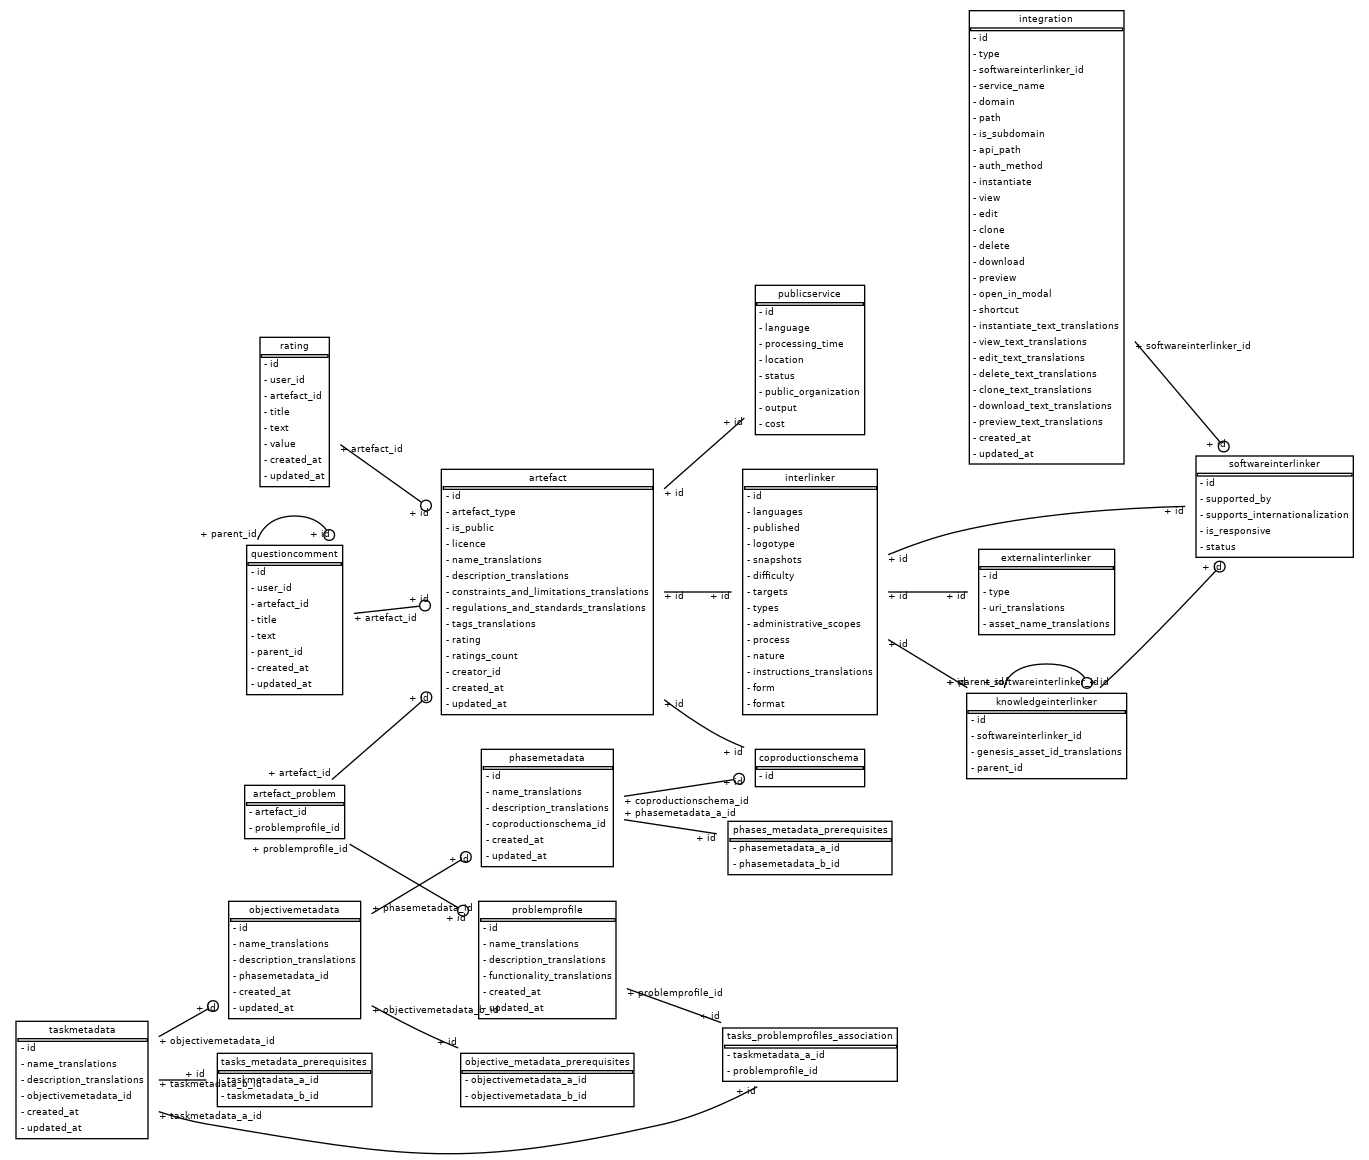
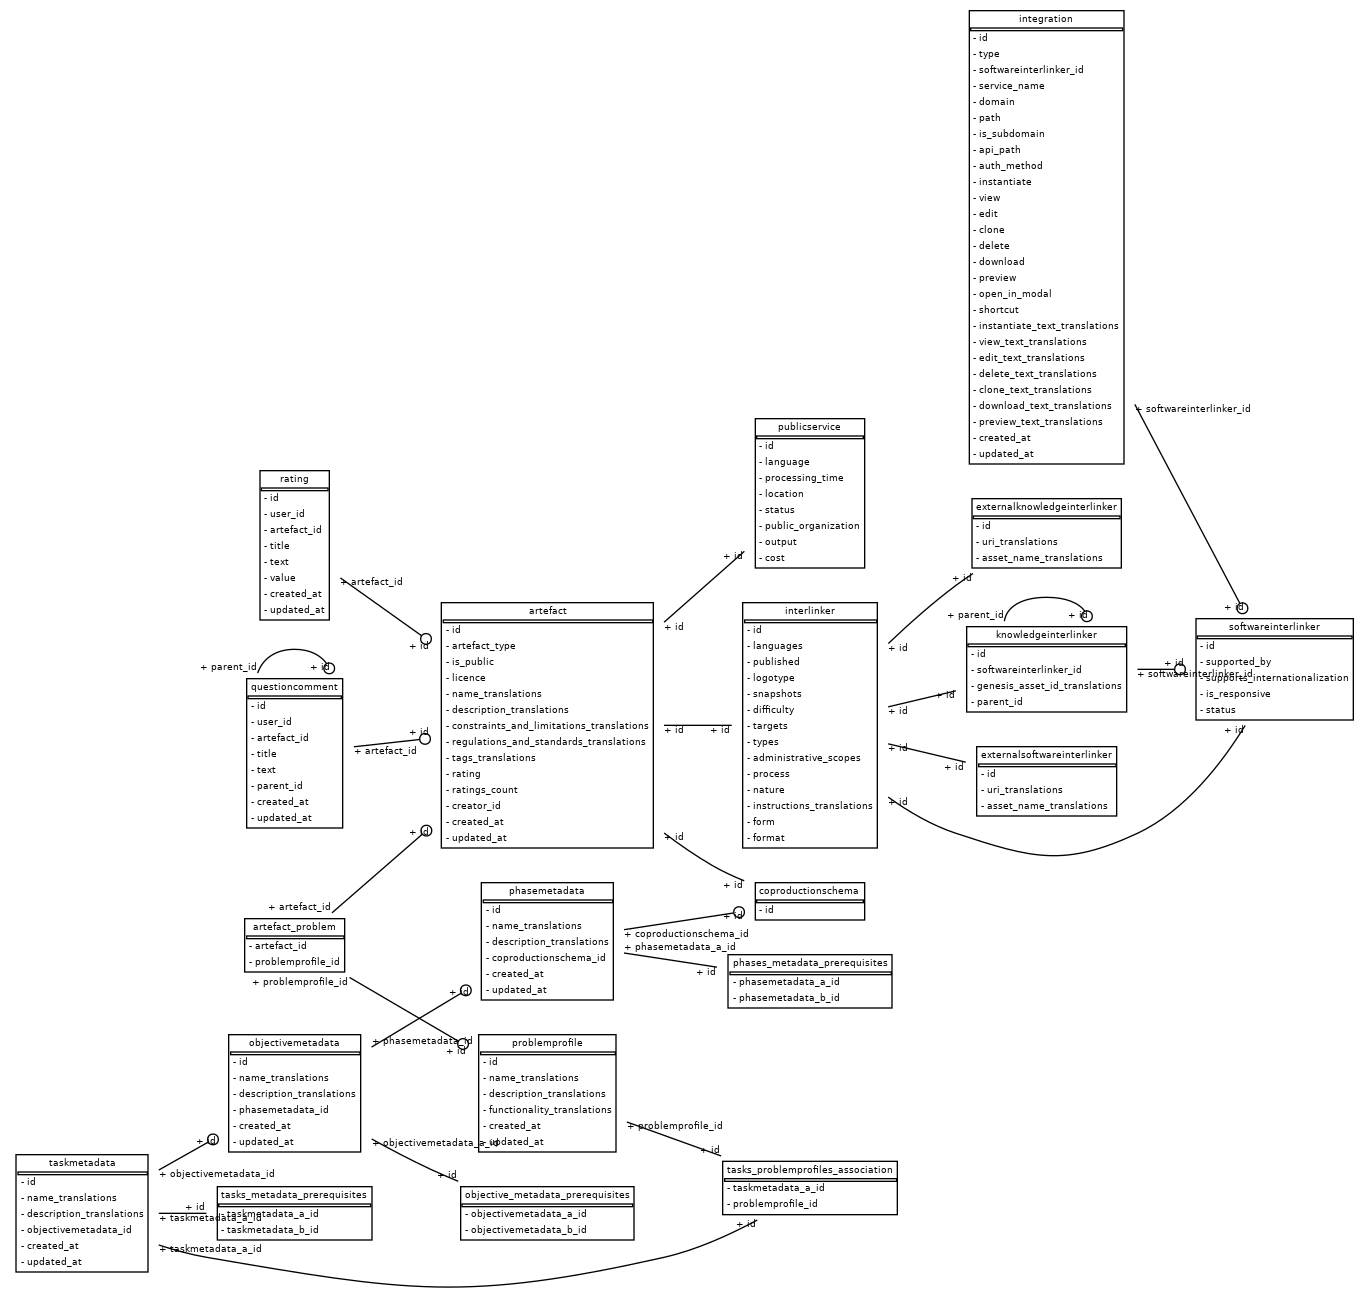
External interlinkers

Changed region(s): [[0.0, 0.0, 1.0, 0.9931], [0.8283, 0.2793, 0.8897, 0.3414], [0.2761, 0.9931, 0.3682, 1.0]]

diff --git a/catalogue/app/interlinkers/schemas.py b/catalogue/app/interlinkers/schemas.py
@@ -154,25 +154,23 @@ class KnowledgeInterlinkerOut(BasicKnowledgeInterlinker, KnowledgeBaseInterlinke
     children: List[BasicKnowledgeInterlinker]
 
 
-### ExternalInterlinker
+### ExternalSoftwareInterlinker
 
 
-class ExternalBaseInterlinkerBase(BaseInterlinkerBase):
-    nature: Literal["externalinterlinker"] = "externalinterlinker"
-    type: str
-    
+class ExternalSoftwareBaseInterlinkerBase(BaseInterlinkerBase):
+    nature: Literal["externalsoftwareinterlinker"] = "externalsoftwareinterlinker"    
 
 
-class ExternalInterlinkerCreate(BaseInterlinkerCreate, ExternalBaseInterlinkerBase):
+class ExternalSoftwareInterlinkerCreate(BaseInterlinkerCreate, ExternalSoftwareBaseInterlinkerBase):
     uri_translations: dict
     asset_name_translations: Optional[dict]
 
 
-class ExternalInterlinkerPatch(ExternalInterlinkerCreate, metaclass=AllOptional):
+class ExternalSoftwareInterlinkerPatch(ExternalSoftwareInterlinkerCreate, metaclass=AllOptional):
     pass
 
 
-class ExternalBaseInterlinkerORM(BaseInterlinkerORM, ExternalBaseInterlinkerBase):
+class ExternalSoftwareBaseInterlinkerORM(BaseInterlinkerORM, ExternalSoftwareBaseInterlinkerBase):
     id: uuid.UUID
     created_at: datetime
     updated_at: Optional[datetime]
@@ -184,27 +182,65 @@ class ExternalBaseInterlinkerORM(BaseInterlinkerORM, ExternalBaseInterlinkerBase
         orm_mode = True
 
 
-class BasicExternalInterlinker(BaseInterlinkerOut, ExternalBaseInterlinkerORM):
+class BasicExternalSoftwareInterlinker(BaseInterlinkerOut, ExternalSoftwareBaseInterlinkerORM):
     pass
 
 
-class ExternalInterlinkerOut(BasicExternalInterlinker, ExternalBaseInterlinkerORM):
+class ExternalSoftwareInterlinkerOut(BasicExternalSoftwareInterlinker, ExternalSoftwareBaseInterlinkerORM):
     pass
 
+
+
+### ExternalKnowledgeInterlinker
+
+
+class ExternalKnowledgeBaseInterlinkerBase(BaseInterlinkerBase):
+    nature: Literal["externalknowledgeinterlinker"] = "externalknowledgeinterlinker"    
+
+
+class ExternalKnowledgeInterlinkerCreate(BaseInterlinkerCreate, ExternalKnowledgeBaseInterlinkerBase):
+    uri_translations: dict
+    asset_name_translations: Optional[dict]
+
+
+class ExternalKnowledgeInterlinkerPatch(ExternalKnowledgeInterlinkerCreate, metaclass=AllOptional):
+    pass
+
+
+class ExternalKnowledgeBaseInterlinkerORM(BaseInterlinkerORM, ExternalKnowledgeBaseInterlinkerBase):
+    id: uuid.UUID
+    created_at: datetime
+    updated_at: Optional[datetime]
+
+    uri: str
+    asset_name: Optional[str]
+
+    class Config:
+        orm_mode = True
+
+
+class BasicExternalKnowledgeInterlinker(BaseInterlinkerOut, ExternalKnowledgeBaseInterlinkerORM):
+    pass
+
+
+class ExternalKnowledgeInterlinkerOut(BasicExternalKnowledgeInterlinker, ExternalKnowledgeBaseInterlinkerORM):
+    pass
+
+###
 
 InterlinkerCreate = Annotated[
-    Union[SoftwareInterlinkerCreate, KnowledgeInterlinkerCreate, ExternalInterlinkerCreate],
+    Union[SoftwareInterlinkerCreate, KnowledgeInterlinkerCreate, ExternalSoftwareInterlinkerCreate, ExternalKnowledgeInterlinkerCreate],
     Field(discriminator="nature"),
 ]
 
 InterlinkerPatch = Annotated[
-    Union[SoftwareInterlinkerPatch, KnowledgeInterlinkerPatch, ExternalInterlinkerPatch],
+    Union[SoftwareInterlinkerPatch, KnowledgeInterlinkerPatch, ExternalSoftwareInterlinkerPatch, ExternalKnowledgeInterlinkerPatch],
     Field(discriminator="nature"),
 ]
 
 
 class InterlinkerOut(BaseModel):
     __root__: Annotated[
-        Union[SoftwareInterlinkerOut, KnowledgeInterlinkerOut, ExternalInterlinkerOut],
+        Union[SoftwareInterlinkerOut, KnowledgeInterlinkerOut, ExternalSoftwareInterlinkerOut, ExternalKnowledgeInterlinkerOut],
         Field(discriminator="nature"),
     ]

diff --git a/catalogue/app/interlinkers/crud.py b/catalogue/app/interlinkers/crud.py
@@ -3,8 +3,8 @@ from typing import Optional, List, Union
 
 from sqlalchemy.orm import Session
 
-from app.models import Interlinker, KnowledgeInterlinker, SoftwareInterlinker, ExternalInterlinker
-from app.schemas import InterlinkerCreate, SoftwareInterlinkerCreate, KnowledgeInterlinkerCreate, ExternalInterlinkerCreate, InterlinkerPatch
+from app.models import Interlinker, KnowledgeInterlinker, SoftwareInterlinker, ExternalSoftwareInterlinker, ExternalKnowledgeInterlinker
+from app.schemas import InterlinkerCreate, SoftwareInterlinkerCreate, KnowledgeInterlinkerCreate, ExternalKnowledgeInterlinkerCreate, ExternalSoftwareInterlinkerCreate, InterlinkerPatch
 from app.general.utils.CRUDBase import CRUDBase
 from sqlalchemy import or_, func
 from app.problemprofiles.crud import exportCrud as problems_crud
@@ -53,14 +53,23 @@ class CRUDInterlinker(CRUDBase[Interlinker, InterlinkerCreate, InterlinkerPatch]
         })
         return paginate(db.query(SoftwareInterlinker))
 
-    async def get_multi_externalinterlinkers(
+    async def get_multi_externalsoftwareinterlinkers(
         self, db: Session
-    ) -> List[SoftwareInterlinker]:
+    ) -> List[ExternalSoftwareInterlinker]:
         await log({
-            "model": "EXTERNALINTERLINKER",
+            "model": "EXTERNALSOFTWAREINTERLINKER",
             "action": "LIST",
         })
-        return paginate(db.query(ExternalInterlinker))
+        return paginate(db.query(ExternalSoftwareInterlinker))
+
+    async def get_multi_externalknowledgeinterlinkers(
+        self, db: Session
+    ) -> List[ExternalKnowledgeInterlinker]:
+        await log({
+            "model": "EXTERNALKNOWLEDGEINTERLINKER",
+            "action": "LIST",
+        })
+        return paginate(db.query(ExternalKnowledgeInterlinker))
 
     async def get_multi_internally_integrated_softwareinterlinkers(
         self, db: Session
@@ -96,10 +105,14 @@ class CRUDInterlinker(CRUDBase[Interlinker, InterlinkerCreate, InterlinkerPatch]
             data["nature"] = "knowledgeinterlinker"
             db_obj = KnowledgeInterlinker(**data)
         
-        elif type(interlinker) == ExternalInterlinkerCreate:
-            print("IS EXTERNAL")
-            data["nature"] = "externalinterlinker"
-            db_obj = ExternalInterlinker(**data)
+        elif type(interlinker) == ExternalSoftwareInterlinkerCreate or type(interlinker) == ExternalKnowledgeInterlinkerCreate:
+            if data["nature"] == "externalsoftwareinterlinker":
+                print("IS EXTERNAL SOFTWARE")
+                db_obj = ExternalSoftwareInterlinker(**data)
+            else:
+                print("IS EXTERNAL KNOWLEDGE")
+                db_obj = ExternalKnowledgeInterlinker(**data)
+            
         
         for id in problemprofiles:
             print(id)

diff --git a/catalogue/app/interlinkers/models.py b/catalogue/app/interlinkers/models.py
@@ -150,7 +150,7 @@ class KnowledgeInterlinker(Interlinker):
         return f"http://{backend}{api_path}/{self.genesis_asset_id}"
 
 
-class ExternalInterlinker(Interlinker):
+class ExternalKnowledgeInterlinker(Interlinker):
     """
     Defines the external interlinker model
     """
@@ -160,15 +160,36 @@ class ExternalInterlinker(Interlinker):
         primary_key=True,
         default=uuid.uuid4,
     )
-
-    type = Column(String) # software or knowledge
     uri_translations = Column(HSTORE)
     uri = translation_hybrid(uri_translations)
     asset_name_translations = Column(HSTORE)
     asset_name = translation_hybrid(asset_name_translations)
 
     __mapper_args__ = {
-        "polymorphic_identity": "externalinterlinker",
+        "polymorphic_identity": "externalknowledgeinterlinker",
+    }
+
+    def __repr__(self) -> str:
+        return f"<ExternalInterlinker {self.id}>"
+
+
+class ExternalSoftwareInterlinker(Interlinker):
+    """
+    Defines the external interlinker model
+    """
+    id = Column(
+        UUID(as_uuid=True),
+        ForeignKey("interlinker.id"),
+        primary_key=True,
+        default=uuid.uuid4,
+    )
+    uri_translations = Column(HSTORE)
+    uri = translation_hybrid(uri_translations)
+    asset_name_translations = Column(HSTORE)
+    asset_name = translation_hybrid(asset_name_translations)
+
+    __mapper_args__ = {
+        "polymorphic_identity": "externalsoftwareinterlinker",
     }
 
     def __repr__(self) -> str:

diff --git a/catalogue/app/initial_data.py b/catalogue/app/initial_data.py
@@ -109,18 +109,18 @@ async def create_externalinterlinker(db, metadata_path):
                 data["instructions_translations"][key] = f.read()
 
     # set nature
-    data["nature"] = "externalinterlinker"
     if "software" in str_metadata_path:
-        data["type"] = "software"
+        data["nature"] = "externalsoftwareinterlinker"
+        interlinker = await crud.interlinker.create(
+            db=db,
+            interlinker=schemas.ExternalSoftwareInterlinkerCreate(**data),
+        )
     else:
-        data["type"] = "knowledge"
-    print(data["name_translations"], data["type"])
-    # create interlinker
-    interlinker = await crud.interlinker.create(
-        db=db,
-        interlinker=schemas.ExternalInterlinkerCreate(**data),
-    )
-
+        data["nature"] = "externalknowledgeinterlinker"
+        interlinker = await crud.interlinker.create(
+            db=db,
+            interlinker=schemas.ExternalKnowledgeInterlinkerCreate(**data),
+        )
     print(f"\t{bcolors.OKGREEN}Created successfully!{bcolors.ENDC}")
 
 

diff --git a/catalogue/app/api/api_v1/externalsoftwareinterlinkers.py b/catalogue/app/api/api_v1/externalsoftwareinterlinkers.py
@@ -1,0 +1,23 @@
+from typing import Any, List, Optional
+import uuid
+from fastapi import APIRouter, Depends, HTTPException
+from pydantic import BaseModel
+from sqlalchemy.orm import Session
+from fastapi_pagination import Page
+from fastapi_pagination.ext.sqlalchemy import paginate
+
+from app import crud, models, schemas
+from app.general import deps
+import requests
+
+router = APIRouter()
+
+@router.get("", response_model=Page[schemas.ExternalSoftwareInterlinkerOut])
+async def list_externalinterlinkers(
+    db: Session = Depends(deps.get_db),
+    current_user: Optional[dict] = Depends(deps.get_current_user),
+) -> Any:
+    """
+    Retrieve external interlinkers.
+    """
+    return await crud.interlinker.get_multi_externalsoftwareinterlinkers(db)

diff --git a/catalogue/app/api/api_v1/externalknowledgeinterlinkers.py b/catalogue/app/api/api_v1/externalknowledgeinterlinkers.py
@@ -12,7 +12,7 @@ import requests
 
 router = APIRouter()
 
-@router.get("", response_model=Page[schemas.ExternalInterlinkerOut])
+@router.get("", response_model=Page[schemas.ExternalKnowledgeInterlinkerOut])
 async def list_externalinterlinkers(
     db: Session = Depends(deps.get_db),
     current_user: Optional[dict] = Depends(deps.get_current_user),
@@ -20,4 +20,4 @@ async def list_externalinterlinkers(
     """
     Retrieve external interlinkers.
     """
-    return await crud.interlinker.get_multi_externalinterlinkers(db)
+    return await crud.interlinker.get_multi_externalknowledgeinterlinkers(db)
